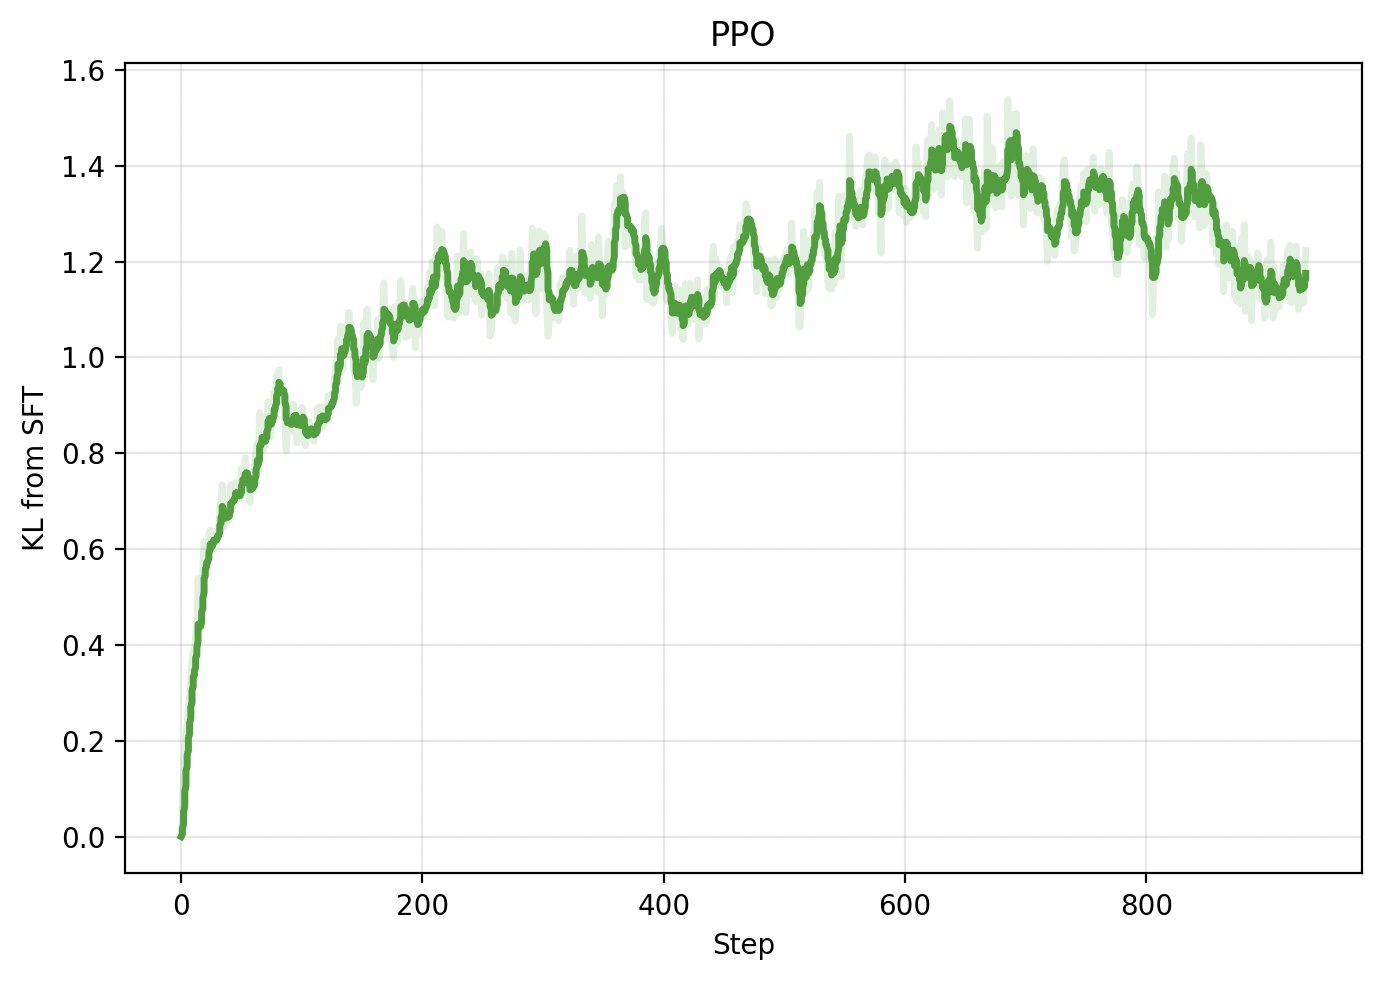
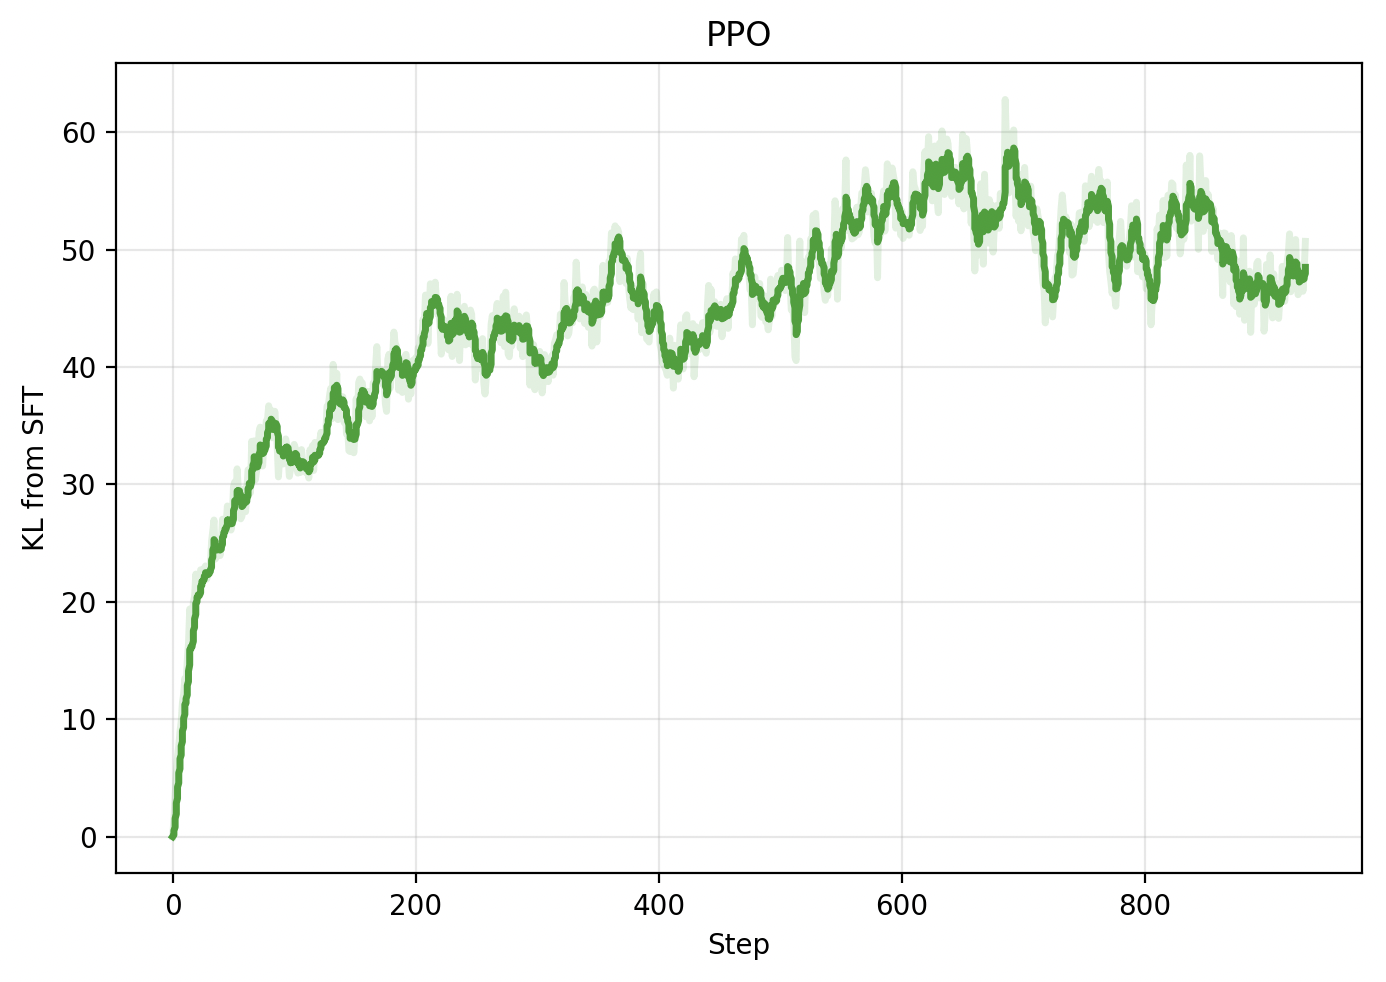
docs and plots

diff --git a/experiments/trainers/rm_model_trainer.py b/experiments/trainers/rm_model_trainer.py
@@ -6,6 +6,7 @@ import torch
 import torch.optim as optim
 from torch.amp import GradScaler, autocast
 from torch.optim.lr_scheduler import CosineAnnealingLR
+import torch.nn.functional as F
 
 from experiments.checkpointer import Checkpointer
 from experiments.config import RMConfigBase
@@ -112,7 +113,7 @@ class RMTrainer(BaseTrainer):
 
     @detect_nans
     def _loss(self, r_preferred, r_rejected):
-        loss = -torch.mean(torch.log(torch.sigmoid(r_preferred - r_rejected)))
+        loss = -torch.mean(F.logsigmoid(r_preferred - r_rejected))
         return loss
 
     @profile
@@ -151,10 +152,28 @@ class RMTrainer(BaseTrainer):
 
                 self._backward(loss)
 
-                if (self.global_step + 1) % self.config.accumulation_steps == 0:
+                self.global_step += 1
+
+                if self.global_step % self.config.accumulation_steps == 0:
                     self._update_weights()
 
-                self.global_step += 1
+                    self.logger.log(
+                        scalars={
+                            "loss": loss.item(),
+                            "accuracy": self._accuracy(r_preferred, r_rejected).item(),
+                            "r_preferred": torch.mean(r_preferred).item(),
+                            "r_rejected": torch.mean(r_rejected).item(),
+                            "r_delta": torch.mean(r_preferred - r_rejected).item(),
+                            "epoch": epoch,
+                            "global_step": self.global_step,
+                            "lr": self.lr_scheduler.get_last_lr()[0],
+                        },
+                        models=[self.model],
+                    )
+                    
+                    self._zero_grad()
+
+
 
                 self.checkpointer.save_checkpoint(
                     self.model,
@@ -165,22 +184,6 @@ class RMTrainer(BaseTrainer):
                     checkpoint_prefix="reward_",
                 )
 
-                self.logger.log(
-                    scalars={
-                        "loss": loss.item(),
-                        "accuracy": self._accuracy(r_preferred, r_rejected).item(),
-                        "r_preferred": torch.mean(r_preferred).item(),
-                        "r_rejected": torch.mean(r_rejected).item(),
-                        "r_delta": torch.mean(r_preferred - r_rejected).item(),
-                        "epoch": epoch,
-                        "global_step": self.global_step,
-                        "lr": self.lr_scheduler.get_last_lr()[0],
-                    },
-                    models=[self.model],
-                )
-
-                if (self.global_step + 1) % self.config.accumulation_steps == 0:
-                    self._zero_grad()
 
         # Final checkpoint
         self.checkpointer.save_checkpoint(

diff --git a/experiments/trainers/ppo_rlhf_eval.py b/experiments/trainers/ppo_rlhf_eval.py
@@ -555,7 +555,7 @@ class PPORLHFEval(BaseTrainer):
                     steps.append(data['global_step'])
                     raw_reward.append(data['mean_raw_reward'])
                     rlhf_reward.append(data['mean_rlhf_reward'])
-                    kl.append(data['kl'])
+                    kl.append(data['kl_mean'])
                     returns.append(data['R'])
                     entropy.append(data['policy_entropy'])
                     approx_kl.append(data['approx_kl'])
@@ -567,9 +567,9 @@ class PPORLHFEval(BaseTrainer):
         # plt.plot(steps, smooth(rlhf_reward, weight=0.98), alpha=1.0, color='#2ca02c', linewidth=2.5, label="Reward")
         # plt.ylabel('RLHF Reward')
 
-        # plt.plot(steps, kl, alpha=0.15, color='#2ca02c', linewidth=2.5,)
-        # plt.plot(steps, smooth(kl, weight=0.90), alpha=1.0, color='#2ca02c', linewidth=2.5, label="SFT")
-        # plt.ylabel('KL from SFT')
+        plt.plot(steps, kl, alpha=0.15, color='#2ca02c', linewidth=2.5,)
+        plt.plot(steps, smooth(kl, weight=0.90), alpha=1.0, color='#2ca02c', linewidth=2.5, label="SFT")
+        plt.ylabel('KL from SFT')
 
         # plt.plot(steps, returns, alpha=0.15, color='#2ca02c', linewidth=2.5,)
         # plt.plot(steps, smooth(returns, weight=0.9), alpha=1.0, color='#2ca02c', linewidth=2.5, label="SFT")
@@ -581,9 +581,9 @@ class PPORLHFEval(BaseTrainer):
         # plt.plot(steps, smooth(approx_kl, weight=0.9), alpha=1.0, color='#2ca02c', linewidth=2.5, label="SFT")
         # plt.ylabel('Approx KL')
 
-        plt.plot(steps, raw_reward, alpha=0.15, color='#2ca02c', linewidth=2.5,)
-        plt.plot(steps, smooth(raw_reward, weight=0.98), alpha=1.0, color='#2ca02c', linewidth=2.5, label="Reward")
-        plt.ylabel('RM Score')
+        # plt.plot(steps, raw_reward, alpha=0.15, color='#2ca02c', linewidth=2.5,)
+        # plt.plot(steps, smooth(raw_reward, weight=0.98), alpha=1.0, color='#2ca02c', linewidth=2.5, label="Reward")
+        # plt.ylabel('RM Score')
 
 
         plt.xlabel('Step')

diff --git a/docs/eval.md b/docs/eval.md
@@ -7,13 +7,15 @@ The goal of this analysis is to verify reproduction of results.
 ## Stage 1: Supervised Fine-Tuning (SFT)
 
 ### Training Setup
-- Base model: Llama-XXX (vs paper's GPT-3)
-- Dataset: Reddit TL;DR (XXX train examples)
-- Key hyperparameters:
-  - Learning rate: X.XX (paper: X.XX)
-  - Batch size: XX (paper: XX)
-  - Epochs: X (paper: X)
-- Training time: X hours on [your GPU setup]
+
+Follows Huang et al. 2024. Only differences are:
+
+| Difference | Reproduction | Huang et al 2024 | 
+|--------|--------|-----------|
+|GPT Base Model|Llama-3.2-1B (untuned)|Pythia Biderman et al. (2023)|
+|Tokenizer|HF Llama Tokenizer|HF Pythia Tokenizer|
+|Hardware | 1xH200| 8xH100|
+
 
 ### Results
 
@@ -265,12 +267,22 @@ Boyfriend is a billionaire and I'm upset that I've been lied to for the past 2 y
 
 ### Training Setup
 
-(TODO) - Calibration
+Follows Huang et al. 2024. Only differences are:
+
+| Difference | Reproduction | Huang et al 2024 | 
+|--------|--------|-----------|
+|Base SFT Model|Llama-3.2-1B (untuned)|Pythia Biderman et al. (2023)|
+|Tokenizer|HF Llama Tokenizer|HF Pythia Tokenizer|
+|Hardware | 1xH200| 8xH100|
+
 
 
 ### Results
 
 **Training curves:**
+
+TODO - Calibration / agreement?
+
 
 <table>
 <tr>
@@ -283,12 +295,16 @@ Boyfriend is a billionaire and I'm upset that I've been lied to for the past 2 y
 </tr>
 <tr>
 <td><img src="assets/images/rm_r_delta.png" alt="RM reward delta"/></td>
+
 </tr>
 <tr>
 <td align="center"><i>Reproduced RM</i></td>
 <td align="center"><i>Huang et al. (2024)</i></td>
 </tr>
 </table>
+
+
+
 
 **Metrics:**
 | Metric | Reproduced SFT | Paper SFT | 
@@ -425,6 +441,8 @@ Prompt
 </tr>
 </table>
 
+<img src="assets/images/ppo_train_curves.png" alt="RM reward delta"/>
+<td align="center"><i>Additional PPO training curves. Left to right, top to bottom: Entropy of the current policy, mean sequence length in a batch, mean return, length reward correlation within a batch, ratio of batch clipped by ppo loss function, max advantage in a batch.</i></td>
 
 **Eval plots:**
 
@@ -440,6 +458,8 @@ Prompt
 <td align="center"><i>Huang et al. (2024)</i></td>
 </tr>
 </table>
+
+
 
 **Metrics:**
 | Metric | Reproduced PPO | Paper PPO | 
